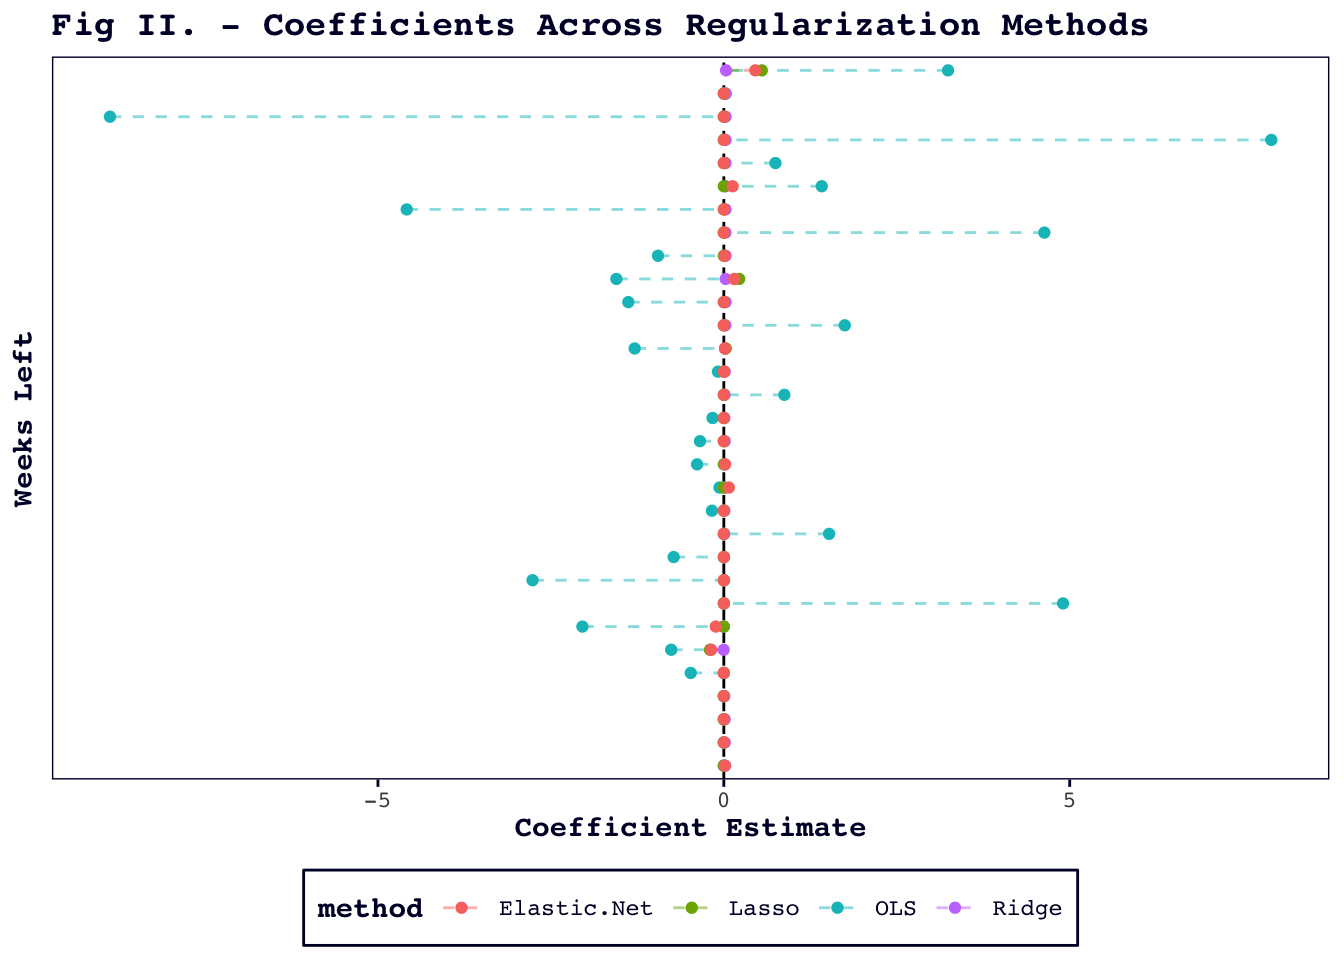
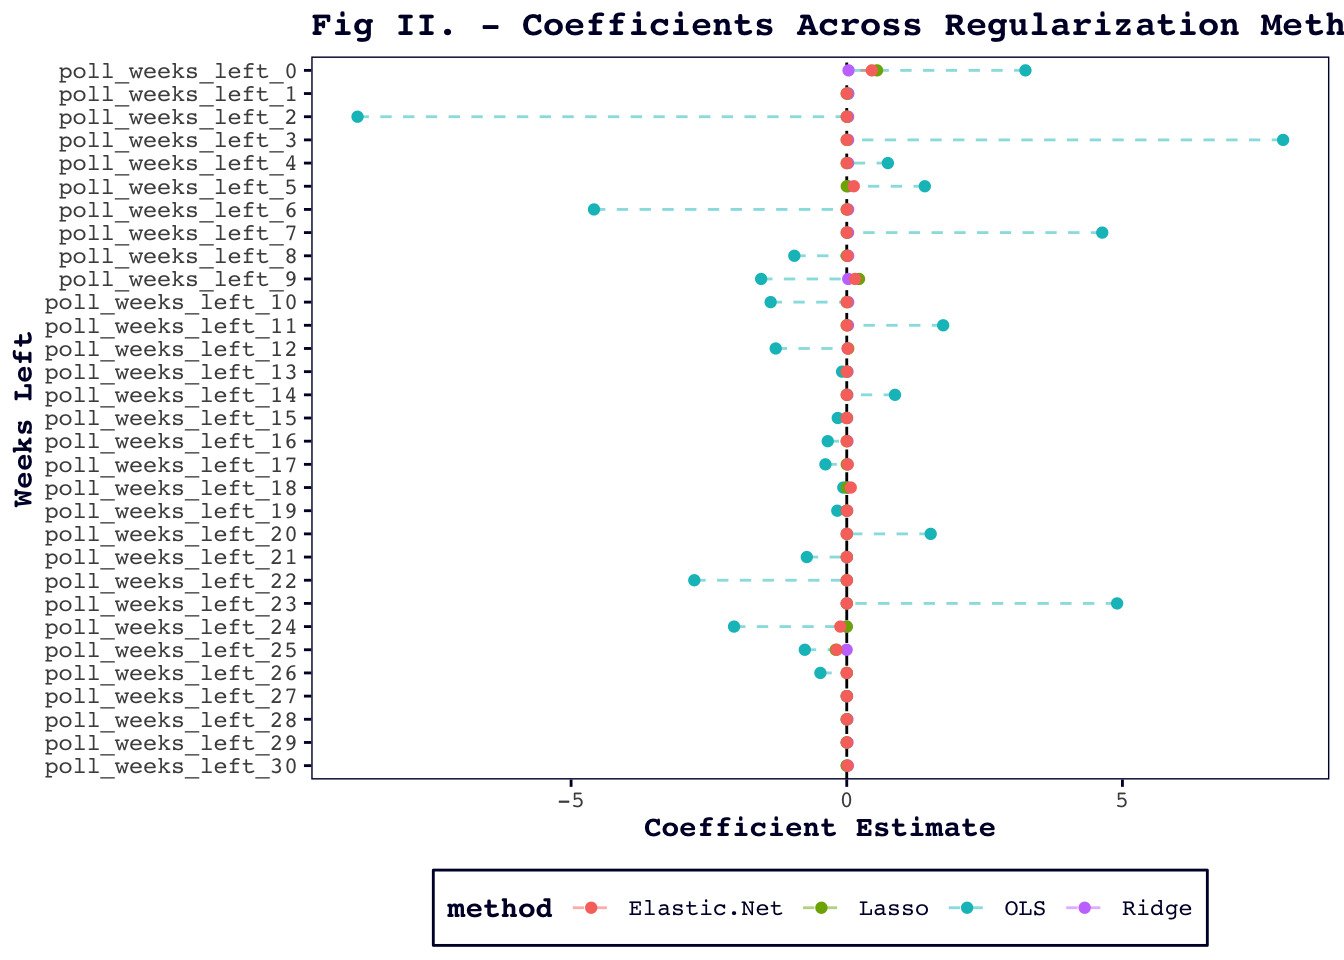
more text

diff --git a/public/post/2024/09/22/blog-post-3/index.html b/public/post/2024/09/22/blog-post-3/index.html
@@ -31,13 +31,15 @@
 <p>Figure I (below) plots some newsworthy events from the past several months against the candidates&rsquo; performance in national polls.</p>
 <img src="/post/2024/09/22/blog-post-3/index_files/figure-html/fig 1 print-1.png" width="672" />
 <p>In some cases, the graph lends itself to story-driven interpretations: there is, for instance, President Trump&rsquo;s short-lived bump in approval around the time of his conviction and the dramatic blue spike where Vice President Harris first assumed the role of presumptive candidate in lieu of Biden.</p>
-<p>At other times, however, the polls defy the headlines. The first assassination attempt against President Trump is virtually indistinguishable in this aggregation. While Biden&rsquo;s numbers were already low in early July, confusing Putin and Zelenskyy &ndash; not to mention his opponent and his own vice president &ndash; did not perceivably worsen his standing in the polls. Even the DNC, with its splashy line-up of Democratic stalwarts and Republicans for Harris, fades into the background.</p>
+<p>At other times, however, the polls defy the headlines. The first assassination attempt against President Trump is virtually indistinguishable in this aggregation. While Biden&rsquo;s numbers were already low in early July, confusing Presidents Putin and Zelensky &ndash; not to mention his opponent and his own vice president &ndash; did not perceivably worsen his standing in the polls. Even the DNC, with its splashy line-up of Democratic stalwarts and Republicans for Harris, fades into the background.</p>
 <p>Notice, too, how close the polls remain across these data. Even when one candidate has a particularly good week or month, they tend to remain within a scant few points of their opponent.</p>
 <p>Polls can sometimes seem like a cheat code; a no-nonsense way to get into the minds of the electorate and satisfy our curiosity long before Election Day hands down its verdict. But as these inconsistent trends suggest, polls are deeply imperfect. They are swayed not just by what &ldquo;should&rdquo; matter &ndash; policy proposals, scandals, good or bad speeches &ndash; but also by the framing of the poll itself.</p>
 <p>Do the pollsters have a partisan bias? How do they adjust their raw data, if it is lopsided demographically or politically? Will their respondents actually turnout in November? If they do, will they change their minds? All of these answers have powerful implications for poll-dependent forecasts.</p>
 <p>The dull truth is that polls lie somewhere between magic bullet and useless drivel. My prediction for this week, like the graph above, uses simple aggregation to curb the effects of potential outliers among the major pollsters, and incorporates a measure of fundamental economic conditions to account for the influence of broad, retrospective evaluation on voter behavior.</p>
 <h1 id="predictions-and-methodology">Predictions and Methodology</h1>
+<p>For my first prediction, I looked at week-by-week poll aggregations. Incorporating every single week into a plain OLS regression, however, would have created a dimensionality error since there are so few election years in the dataset compared to the number of weekly predictors. To reduce the dimensionality of my data, I tested a few regularized regression approaches, including Ridge, LASSO, and Elastic Net. These methods shrink the coefficients of less important predictor variables, making the data easier to work with. Figure II (below) displays the result of this shrinking across the regularization methods.</p>
 <img src="/post/2024/09/22/blog-post-3/index_files/figure-html/fig 2 print-1.png" width="672" />
+<p>I found that Elastic Net produced the lowest mean-squared error of the three approaches. Since Elastic Net is also a middle-point between LASSO &ndash; a more aggressive approach which shrinks some variables to 0 &ndash; and Ridge &ndash; a more conservative shrinker &ndash; I chose to use this method to create my predictions.</p>
 <table>
 <thead>
 <tr>
@@ -74,7 +76,19 @@
 </tr>
 </tbody>
 </table>
+<p>The results of my predictions are displayed in the table above. Model (A) uses the aforementioned week-by-week aggregations. Model (B) adds an explicit adjustment for the polls&rsquo; proximity to Election Day. Model (C) does not use polls at all; it is based on Q2 GDP growth, like my forecast from last week. Model (AC) combines the poll-by-week model and GDP growth. Model (BC) weights polls by their proximity to Election Day and also incorporates a measure of GDP growth which is not adjusted for proximity.</p>
+<p>My working assumption about voter behavior is that polls will improve with additional proximity to the election, that fundamentals will have a more or less constant level of importance throughout the race, and that &ndash; at least for now, with seven weeks to go &ndash; fundamentals and polls are roughly evenly matched as predictors. For those reasons, my final prediction for this week is model (BC): 47.96% of the vote share for Vice President Harris and 45.19% for President Trump.</p>
 <h1 id="assessing-the-experts">Assessing the Experts</h1>
+<p>The trade-off between polls and fundamentals is a continual source of tension for professional forecasters, whose models inevitably reflect their creators’ philosophies about voter behavior. In their 2024 forecasts for FiveThirtyEight and the Silver Bulletin, respectively, G. Elliott Morris and Nate Silver both attempt to tread the line between the two.</p>
+<p>Polls are the centerpiece of the 2024 Silver Bulletin forecast, though some fundamental measures are incorporated, especially in the early stages of the race. The model uses a combination of a simple average which incorporates a measure of pollster quality and a trendline adjustment which helps reign in wayward state-level polls. Perhaps the most aggressive feature of the model is its “timeline adjustment” which retroactively nudges old polls to account for more recent shifts. This approach, of course, relies on the assumption that polls administered closer to Election Day are substantially more dependable than older polls.</p>
+<p>The current FiveThirtyEight model is somewhat more optimistic about the use of fundamentals, though it also decreases their weight as Election Day approaches. The 2024 forecast expands the list of economic variables from six to eleven, including a measure of respondents’ subjective perceptions of the state of the economy (the “Index of Consumer Sentiment”). They argue, based on past elections, particularly 2020, that fundamentals tend to counterbalance bias in the polls. Therefore, fundamentals are incorporated as a baseline to assess poll performance. While this is a compelling possibility, the assumption that this pattern will continue is underdeveloped as written, and makes the model vulnerable to fundamentals and polls trending in the same direction – which could very well happen, especially if the political analysts responsible for maintaining the polls are themselves sensitive to shifts in fundamental conditions.</p>
+<p>I am generally suspicious of pollster quality adjustments, which both models use in some fashion. While past performance seems like a reasonable-enough indicator of future accuracy, it could still unfairly punish or reward pollsters for last-minute shifts in voter intentions, or for irresponsible adjustment methods used to nudge the data towards a more popular answer. Other considerations, like “transparency” are even more far-fetched in terms of their predictive value. Though there should be some baseline for poll quality based on widely-accepted randomization procedures and the like, I am inclined to maximize for poll quantity instead, with the hope that an aggregation of truly wide-ranging polls will best approximate the truth.</p>
+<p>Of the two models, I tend to prefer the current FiveThirtyEight forecast for the greater range of fundamental variables which it incorporates. To be sure, there is a risk of overfitting with limited historical data, but I am more concerned about the Silver Bulletin model’s vulnerability to short-term pollster hivemind.</p>
+<h1 id="references">References</h1>
+<p>Morris, G. (2024, June 11). “How 538&rsquo;s 2024 presidential election forecast works.” FiveThirtyEight. <a href="https://abcnews.go.com/538/538s-2024-presidential-election-forecast-works/story?id=110867585">https://abcnews.go.com/538/538s-2024-presidential-election-forecast-works/story?id=110867585</a></p>
+<p>Morris, G. (2024, April 25). “Trump leads in swing-state polls and is tied with Biden nationally.” FiveThirtyEight. <a href="https://abcnews.go.com/538/trump-leads-swing-state-polls-tied-biden-nationally/story?id=109506070">https://abcnews.go.com/538/trump-leads-swing-state-polls-tied-biden-nationally/story?id=109506070</a></p>
+<p>Silver, N. (2020, Aug. 12). “How FiveThirtyEight’s 2020 Presidential Forecast Works – And What’s Different Because of COVID-19.” FiveThirtyEight. <a href="https://fivethirtyeight.com/features/how-fivethirtyeights-2020-presidential-forecast-works-and-whats-different-because-of-covid-19/">https://fivethirtyeight.com/features/how-fivethirtyeights-2020-presidential-forecast-works-and-whats-different-because-of-covid-19/</a></p>
+<p>Silver, N. (2024, June 26). “2024 presidential election model methodology update.” Silver Bullet. <a href="https://www.natesilver.net/p/model-methodology-2024">https://www.natesilver.net/p/model-methodology-2024</a></p>
 
 </main>
 

diff --git a/content/post/2024-09-22-blog-3/index.md b/content/post/2024-09-22-blog-3/index.md
@@ -28,7 +28,7 @@ Figure I (below) plots some newsworthy events from the past several months again
 
 In some cases, the graph lends itself to story-driven interpretations: there is, for instance, President Trump's short-lived bump in approval around the time of his conviction and the dramatic blue spike where Vice President Harris first assumed the role of presumptive candidate in lieu of Biden. 
 
-At other times, however, the polls defy the headlines. The first assassination attempt against President Trump is virtually indistinguishable in this aggregation. While Biden's numbers were already low in early July, confusing Putin and Zelenskyy -- not to mention his opponent and his own vice president -- did not perceivably worsen his standing in the polls. Even the DNC, with its splashy line-up of Democratic stalwarts and Republicans for Harris, fades into the background.
+At other times, however, the polls defy the headlines. The first assassination attempt against President Trump is virtually indistinguishable in this aggregation. While Biden's numbers were already low in early July, confusing Presidents Putin and Zelensky -- not to mention his opponent and his own vice president -- did not perceivably worsen his standing in the polls. Even the DNC, with its splashy line-up of Democratic stalwarts and Republicans for Harris, fades into the background.
 
 Notice, too, how close the polls remain across these data. Even when one candidate has a particularly good week or month, they tend to remain within a scant few points of their opponent.
 
@@ -42,7 +42,11 @@ The dull truth is that polls lie somewhere between magic bullet and useless driv
 
 
 
+For my first prediction, I looked at week-by-week poll aggregations. Incorporating every single week into a plain OLS regression, however, would have created a dimensionality error since there are so few election years in the dataset compared to the number of weekly predictors. To reduce the dimensionality of my data, I tested a few regularized regression approaches, including Ridge, LASSO, and Elastic Net. These methods shrink the coefficients of less important predictor variables, making the data easier to work with. Figure II (below) displays the result of this shrinking across the regularization methods.
+
 <img src="{{< blogdown/postref >}}index_files/figure-html/fig 2 print-1.png" width="672" />
+
+I found that Elastic Net produced the lowest mean-squared error of the three approaches. Since Elastic Net is also a middle-point between LASSO -- a more aggressive approach which shrinks some variables to 0 -- and Ridge -- a more conservative shrinker -- I chose to use this method to create my predictions.
 
 
 
@@ -55,4 +59,28 @@ The dull truth is that polls lie somewhere between magic bullet and useless driv
 |Combined (AC)          |  51.98| 47.94|
 |Combined (BC)          |  47.96| 45.19|
 
+The results of my predictions are displayed in the table above. Model (A) uses the aforementioned week-by-week aggregations. Model (B) adds an explicit adjustment for the polls' proximity to Election Day. Model (C) does not use polls at all; it is based on Q2 GDP growth, like my forecast from last week. Model (AC) combines the poll-by-week model and GDP growth. Model (BC) weights polls by their proximity to Election Day and also incorporates a measure of GDP growth which is not adjusted for proximity.
+
+My working assumption about voter behavior is that polls will improve with additional proximity to the election, that fundamentals will have a more or less constant level of importance throughout the race, and that -- at least for now, with seven weeks to go -- fundamentals and polls are roughly evenly matched as predictors. For those reasons, my final prediction for this week is model (BC): 47.96% of the vote share for Vice President Harris and 45.19% for President Trump.
+
 # Assessing the Experts
+
+The trade-off between polls and fundamentals is a continual source of tension for professional forecasters, whose models inevitably reflect their creators’ philosophies about voter behavior. In their 2024 forecasts for FiveThirtyEight and the Silver Bulletin, respectively, G. Elliott Morris and Nate Silver both attempt to tread the line between the two.
+
+Polls are the centerpiece of the 2024 Silver Bulletin forecast, though some fundamental measures are incorporated, especially in the early stages of the race. The model uses a combination of a simple average which incorporates a measure of pollster quality and a trendline adjustment which helps reign in wayward state-level polls. Perhaps the most aggressive feature of the model is its “timeline adjustment” which retroactively nudges old polls to account for more recent shifts. This approach, of course, relies on the assumption that polls administered closer to Election Day are substantially more dependable than older polls.
+
+The current FiveThirtyEight model is somewhat more optimistic about the use of fundamentals, though it also decreases their weight as Election Day approaches. The 2024 forecast expands the list of economic variables from six to eleven, including a measure of respondents’ subjective perceptions of the state of the economy (the “Index of Consumer Sentiment”). They argue, based on past elections, particularly 2020, that fundamentals tend to counterbalance bias in the polls. Therefore, fundamentals are incorporated as a baseline to assess poll performance. While this is a compelling possibility, the assumption that this pattern will continue is underdeveloped as written, and makes the model vulnerable to fundamentals and polls trending in the same direction – which could very well happen, especially if the political analysts responsible for maintaining the polls are themselves sensitive to shifts in fundamental conditions.
+
+I am generally suspicious of pollster quality adjustments, which both models use in some fashion. While past performance seems like a reasonable-enough indicator of future accuracy, it could still unfairly punish or reward pollsters for last-minute shifts in voter intentions, or for irresponsible adjustment methods used to nudge the data towards a more popular answer. Other considerations, like “transparency” are even more far-fetched in terms of their predictive value. Though there should be some baseline for poll quality based on widely-accepted randomization procedures and the like, I am inclined to maximize for poll quantity instead, with the hope that an aggregation of truly wide-ranging polls will best approximate the truth.
+
+Of the two models, I tend to prefer the current FiveThirtyEight forecast for the greater range of fundamental variables which it incorporates. To be sure, there is a risk of overfitting with limited historical data, but I am more concerned about the Silver Bulletin model’s vulnerability to short-term pollster hivemind.
+
+# References
+
+Morris, G. (2024, June 11). “How 538's 2024 presidential election forecast works.” FiveThirtyEight. https://abcnews.go.com/538/538s-2024-presidential-election-forecast-works/story?id=110867585
+
+Morris, G. (2024, April 25). “Trump leads in swing-state polls and is tied with Biden nationally.” FiveThirtyEight. https://abcnews.go.com/538/trump-leads-swing-state-polls-tied-biden-nationally/story?id=109506070 
+
+Silver, N. (2020, Aug. 12). “How FiveThirtyEight’s 2020 Presidential Forecast Works – And What’s Different Because of COVID-19.” FiveThirtyEight. https://fivethirtyeight.com/features/how-fivethirtyeights-2020-presidential-forecast-works-and-whats-different-because-of-covid-19/ 
+
+Silver, N. (2024, June 26). “2024 presidential election model methodology update.” Silver Bullet. https://www.natesilver.net/p/model-methodology-2024
